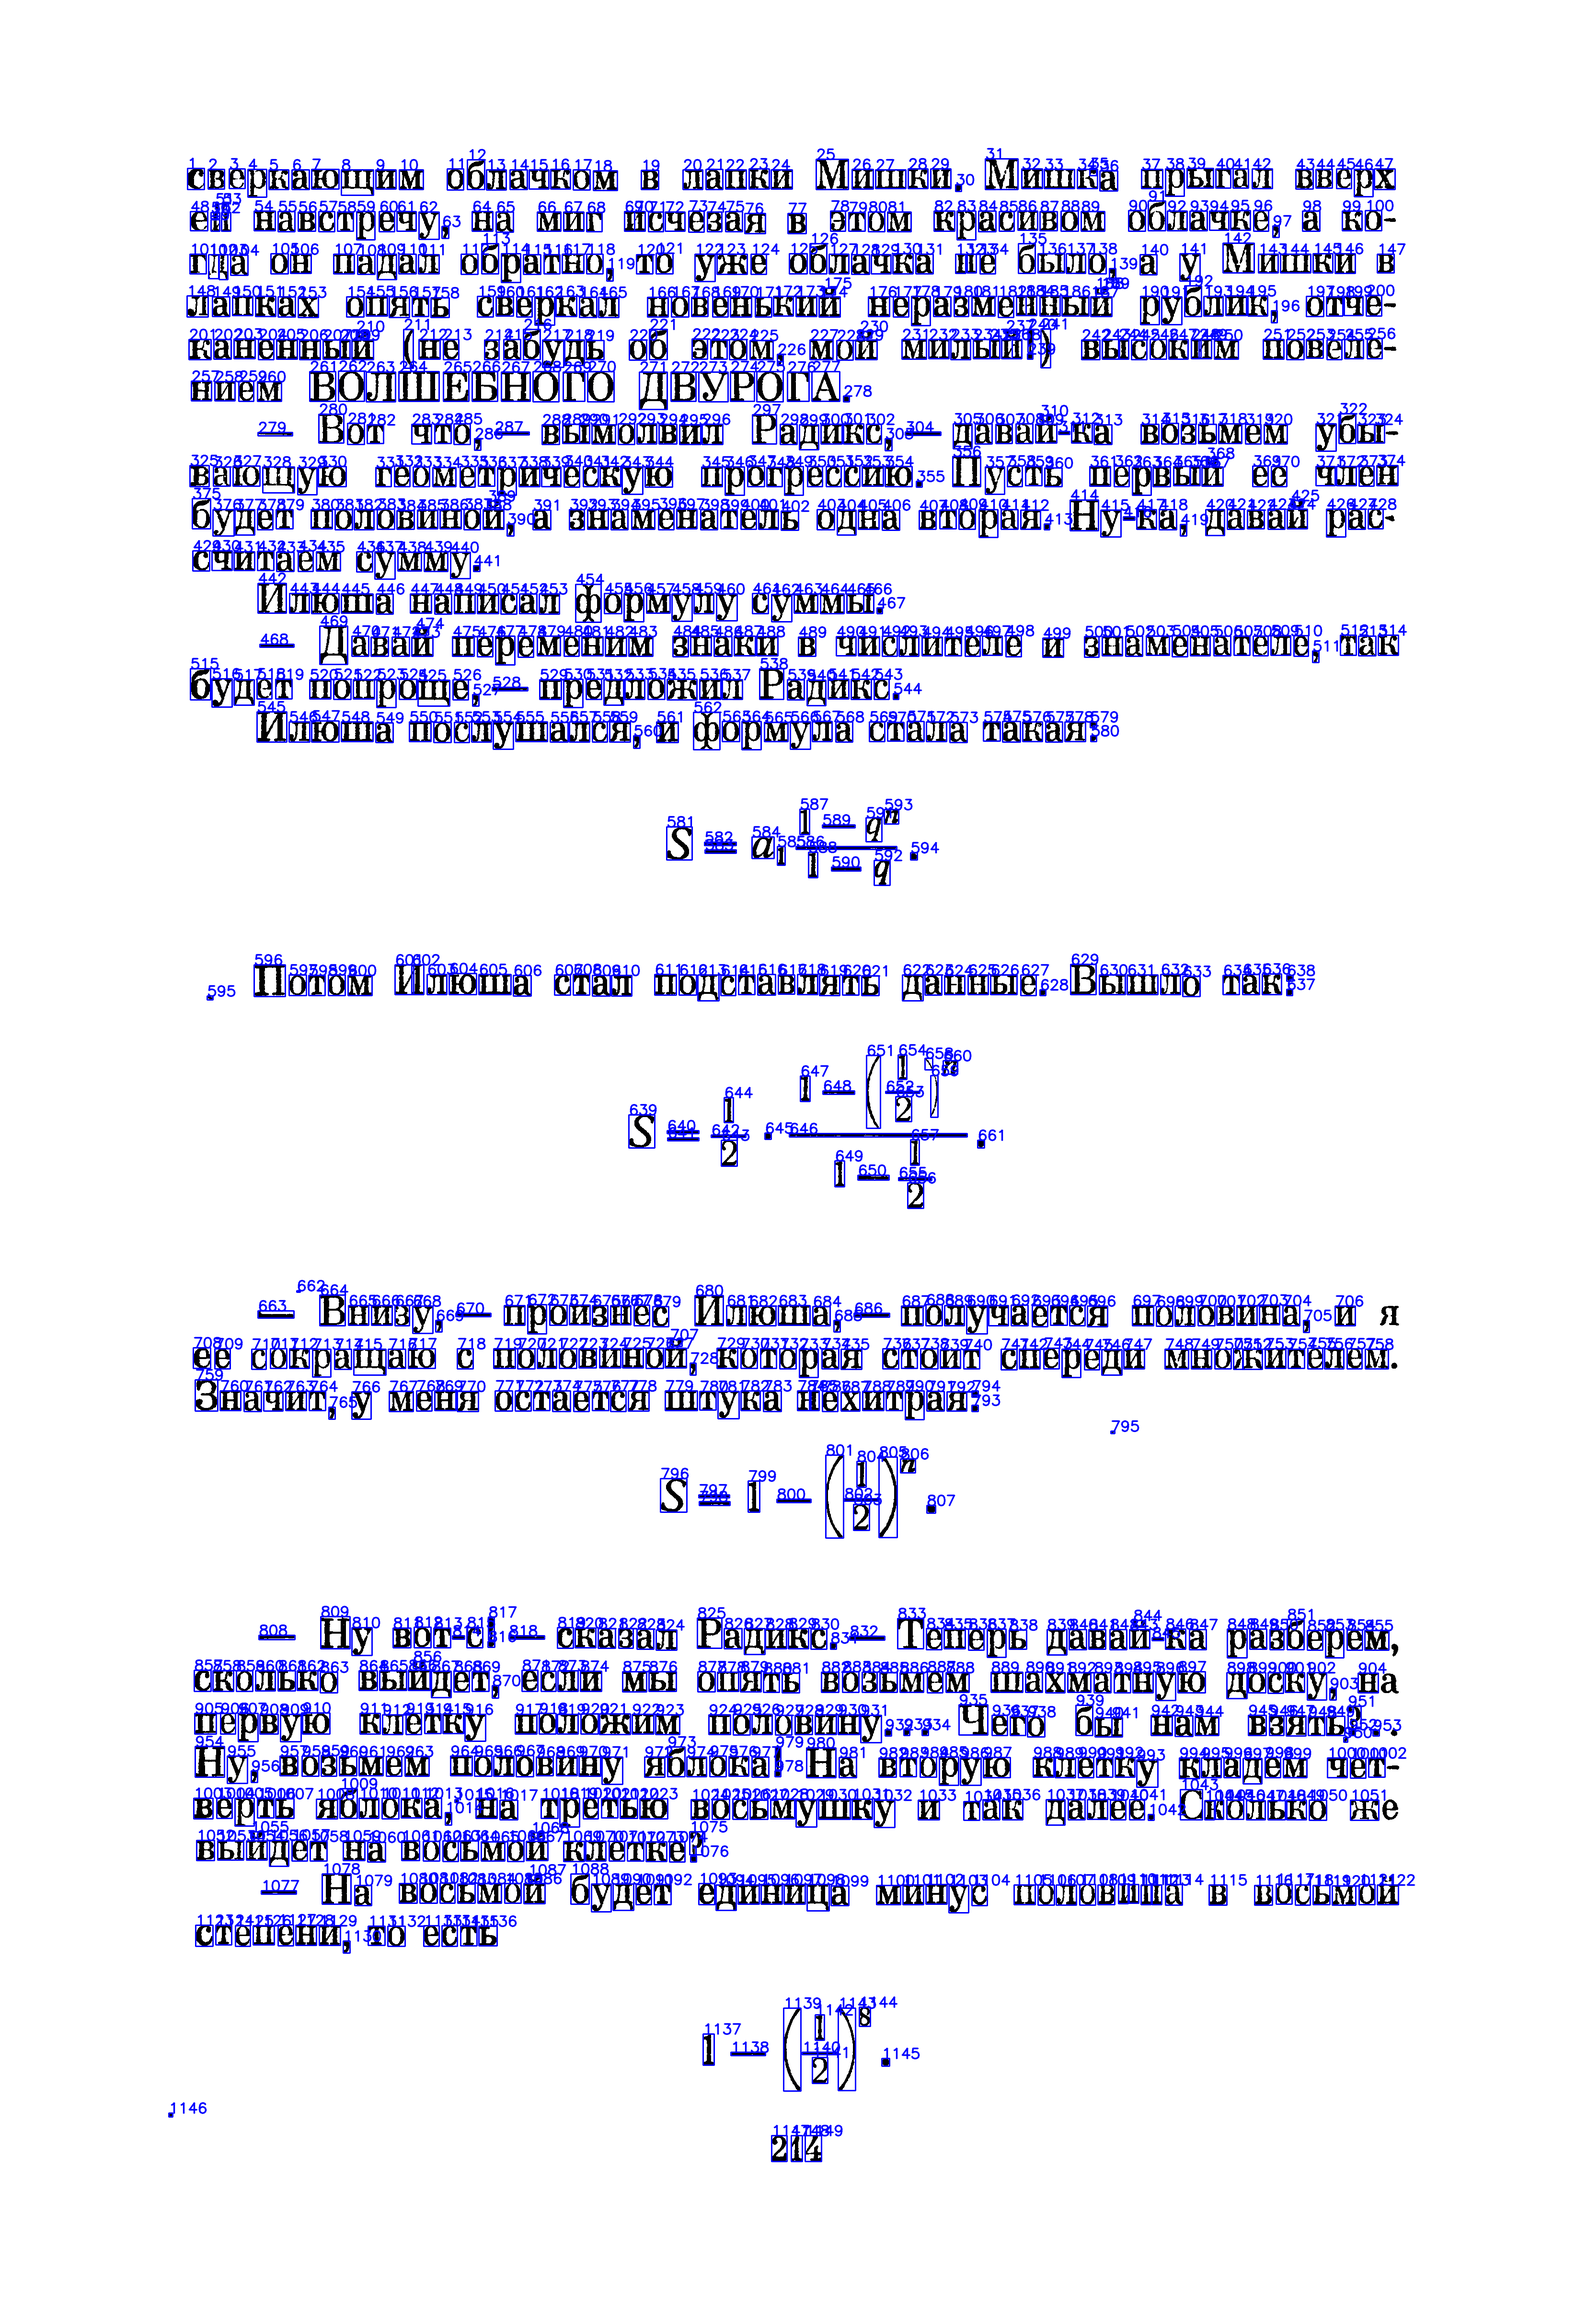
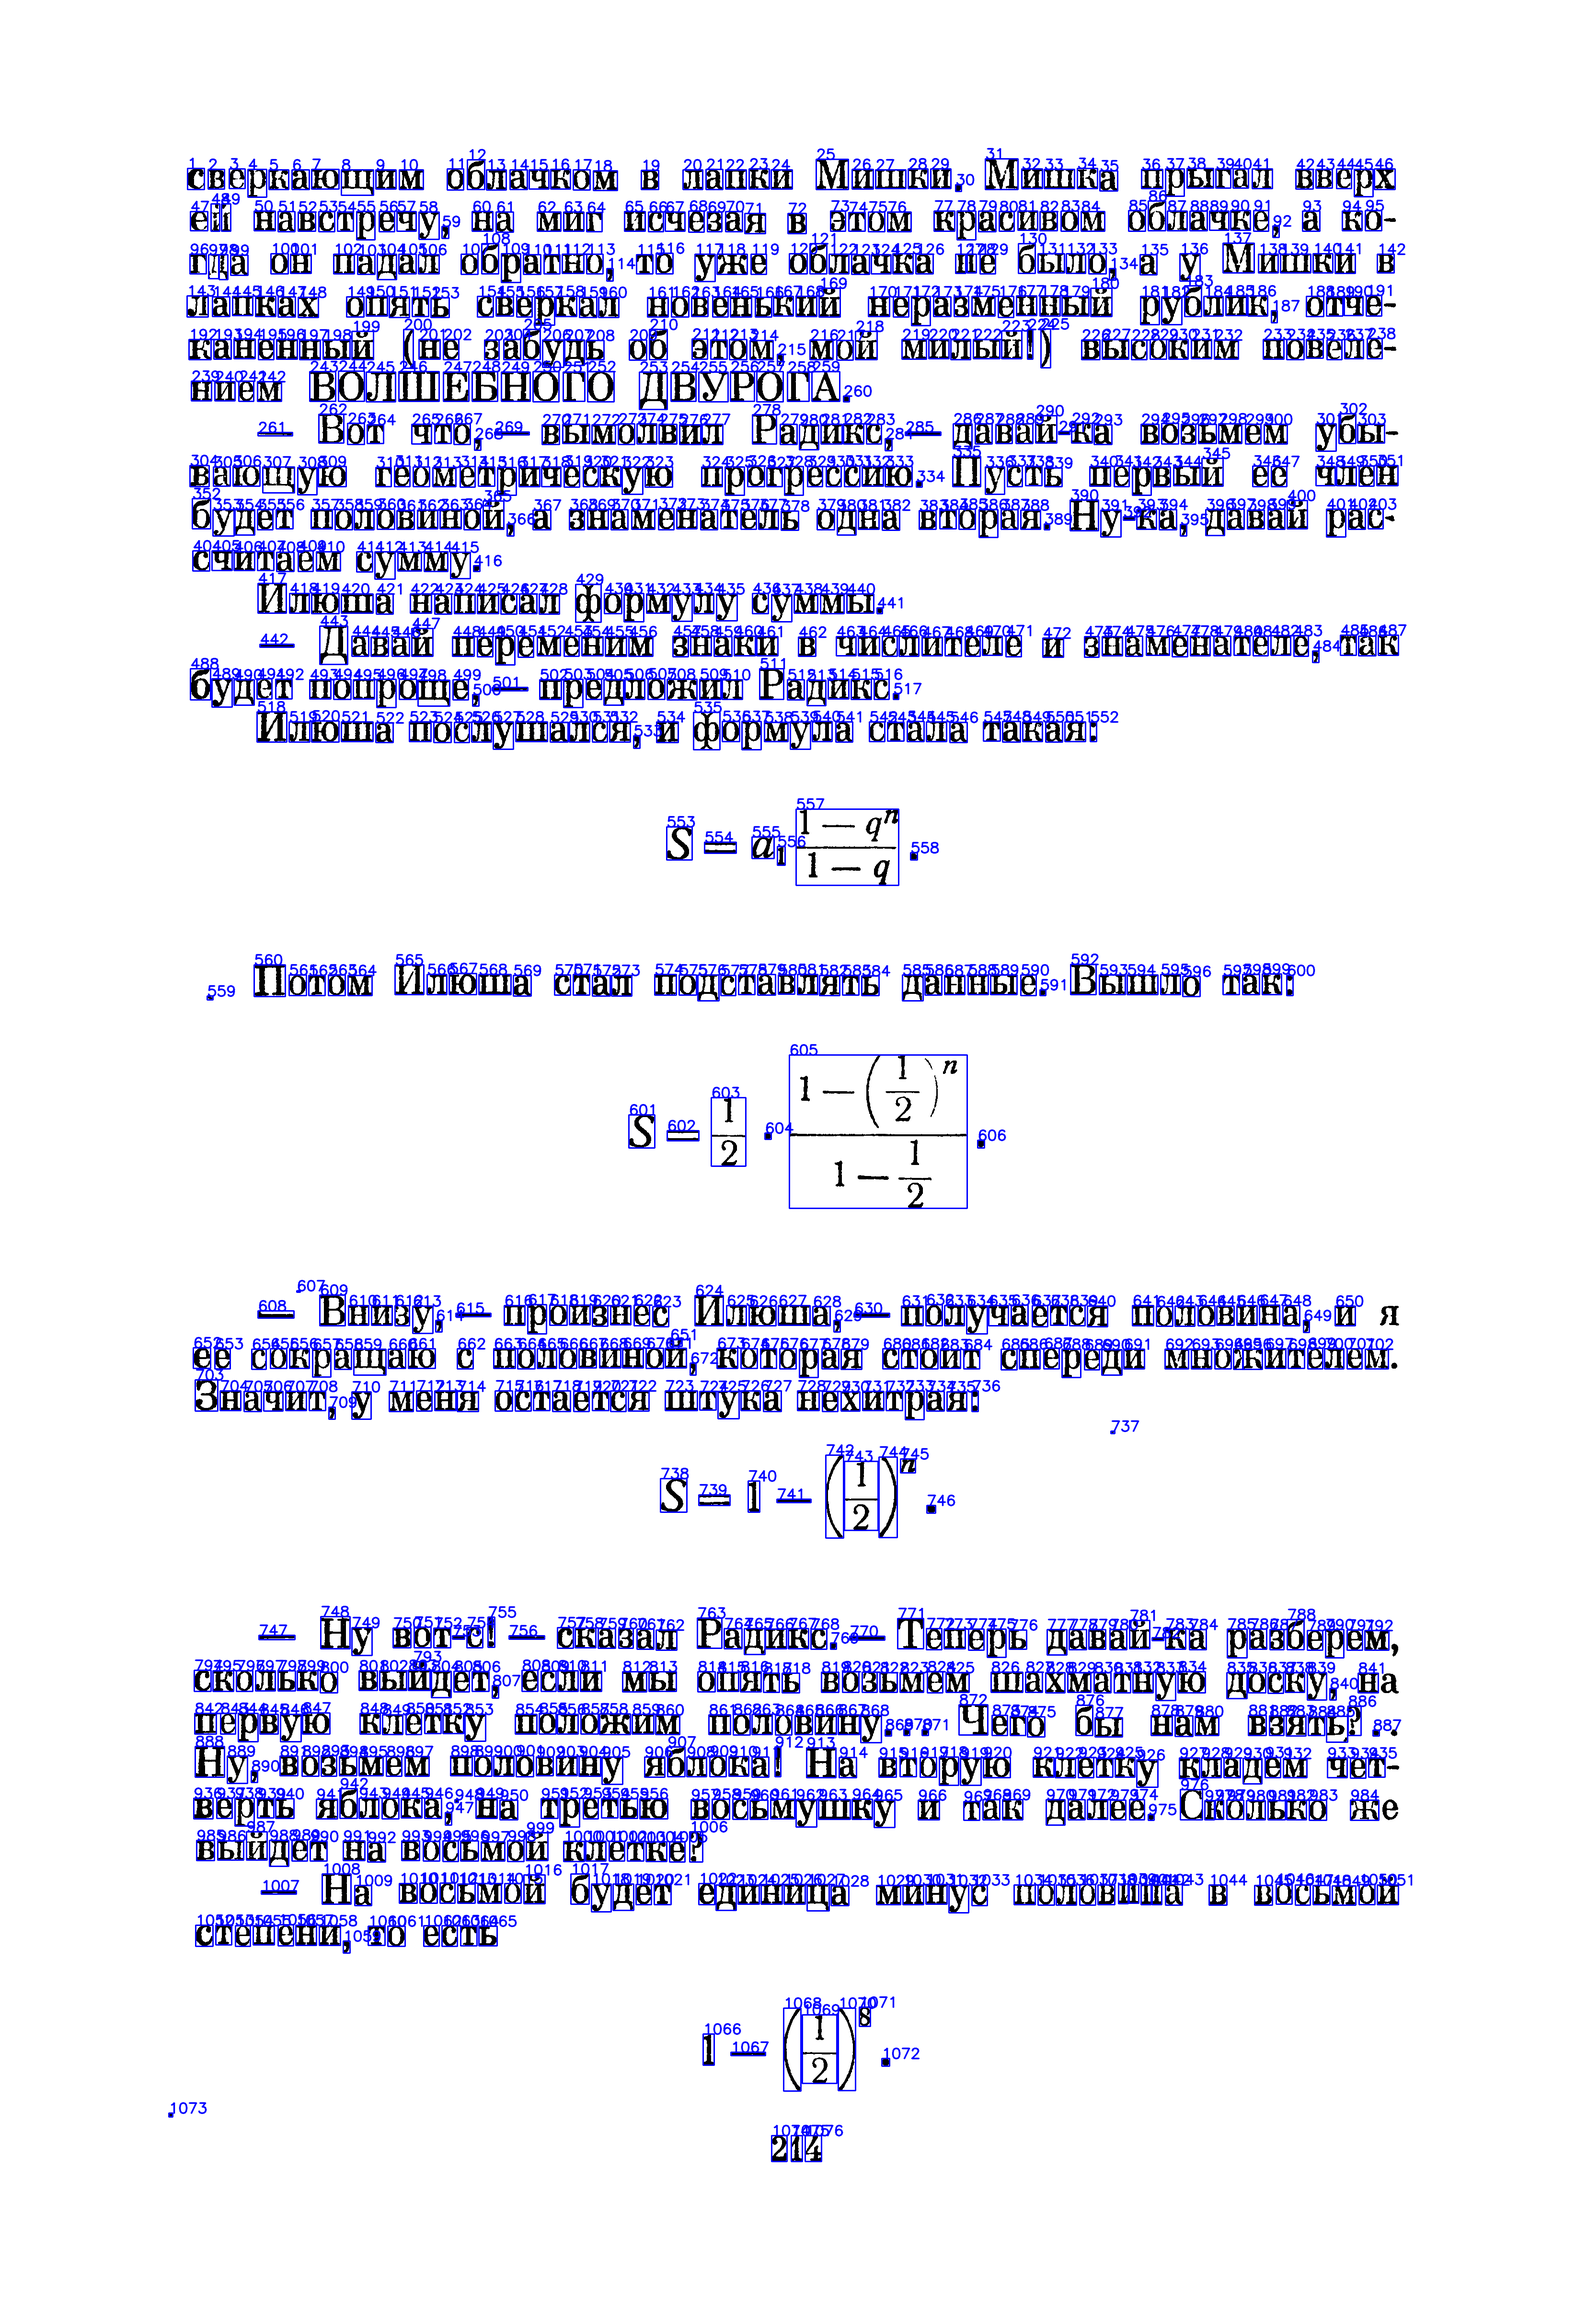
group intersecting glyphs

diff --git a/segmentation.py b/segmentation.py
@@ -3,9 +3,7 @@ from collections import defaultdict
 import cv2
 import intervaltree
 import networkx as nx
-import numpy as np
 from pyflann import *
-
 from segm import join_rects
 
 
@@ -83,6 +81,42 @@ def find_neighbors(jr, nearest_neighbors):
     return ret_val
 
 
+def group_glyphs(glyphs):
+    numbered_glyphs = defaultdict(list)
+    for i, g in enumerate(glyphs):
+        numbered_glyphs[(g.x, g.x + g.width)].append(i)
+    t = intervaltree.IntervalTree()
+    d = dict([(i, (c.x, c.x + c.width, i)) for i, c in enumerate(glyphs)])
+    intervals = list(d.values())
+    for intr in intervals:
+        t.add(intervaltree.Interval(intr[0], intr[1]))
+    glyph_limits = join_intervals(intervals)
+    new_rects = []
+    for gl in glyph_limits:
+        x = t.overlap(gl[0], gl[1])
+        all_inds = set()
+        for intr in x:
+            inds = numbered_glyphs[(intr.begin, intr.end)]
+            all_inds.update(inds)
+        minx = float("inf")
+        maxx = 0
+        miny = float("inf")
+        maxy = 0
+        for ind in all_inds:
+            g = glyphs[ind]
+            if g.x < minx:
+                minx = g.x
+            if g.x + g.width > maxx:
+                maxx = g.x + g.width
+            if g.y < miny:
+                miny = g.y
+            if g.y + g.height > maxy:
+                maxy = g.y + g.height
+        new_rects.append((minx, maxx - minx, miny, maxy - miny))
+
+    return new_rects
+
+
 def find_ordered_glyphs(filename):
     """
     finds all rectangles
@@ -127,7 +161,8 @@ def find_ordered_glyphs(filename):
     lines = dict(sorted(lines.items(), key=lambda x: x[0].begin))
     new_lines = dict()
     for k, v in lines.items():
-        new_lines[k] = sorted(v, key=lambda x: x.x)
+        grouped_glyphs = group_glyphs(v)
+        new_lines[k] = sorted(grouped_glyphs, key=lambda x: x[0])
 
     t = [v for k, v in new_lines.items()]
     flat_list = [item for sublist in t for item in sublist]
@@ -135,18 +170,18 @@ def find_ordered_glyphs(filename):
 
 
 if __name__ == "__main__":
-    filename = "vd_p108.png"
+    filename = "vd_p214.png"
     orig = cv2.imread(filename)
     glyphs = find_ordered_glyphs(filename)
     counter = 1
     font = cv2.FONT_HERSHEY_SIMPLEX
     for gl in glyphs:
         cv2.rectangle(
-            orig, (gl.x, gl.y), (gl.x + gl.width, gl.y + gl.height), (255, 0, 0), 2
+            orig, (gl[0], gl[2]), (gl[0] + gl[1], gl[2] + gl[3]), (255, 0, 0), 2
         )
         cv2.putText(
-            orig, str(counter), (gl.x, gl.y), font, 1, (255, 0, 0), 2, cv2.LINE_AA
+            orig, str(counter), (gl[0], gl[2]), font, 1, (255, 0, 0), 2, cv2.LINE_AA
         )
         counter += 1
 
-    cv2.imwrite("test1.png", orig)
+    cv2.imwrite("segmented.png", orig)
